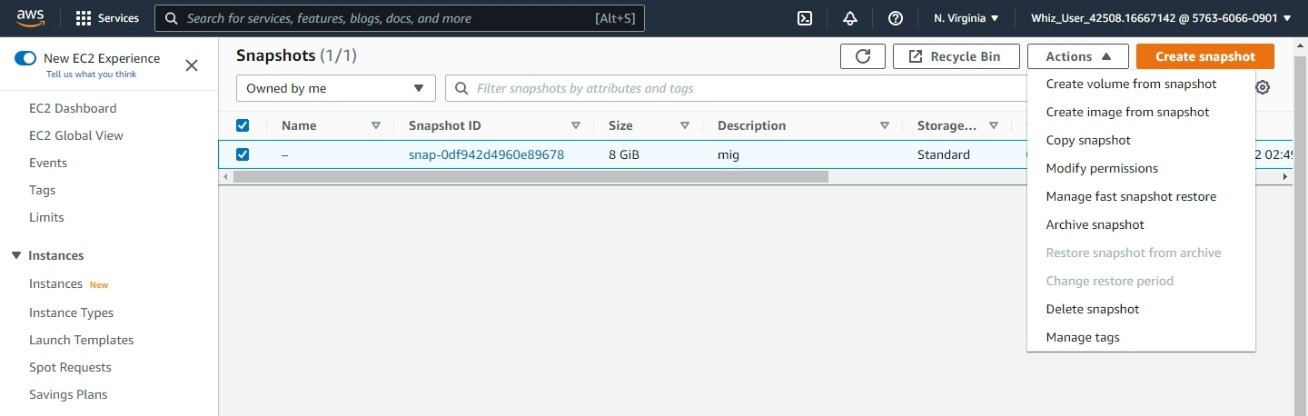
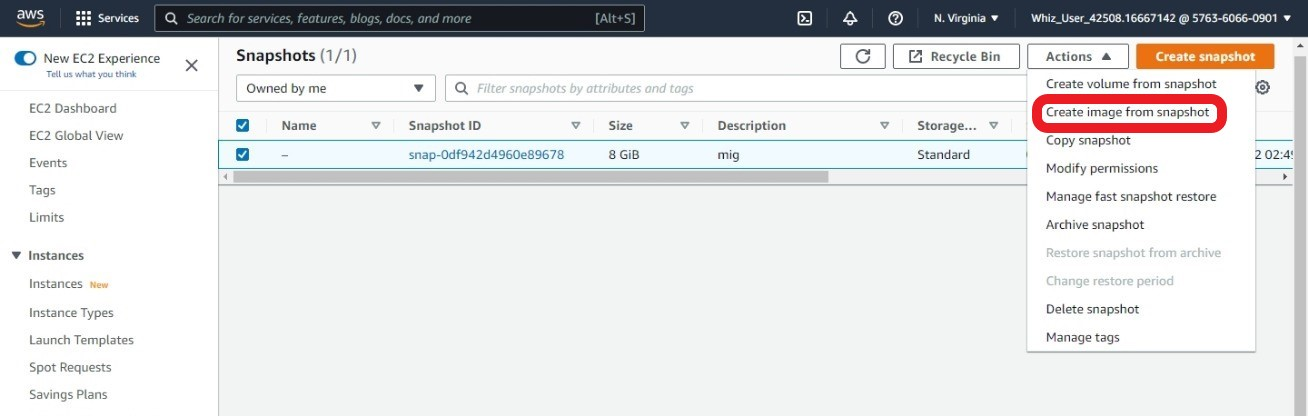
final

Changed region(s): [[0.7645, 0.2188, 0.948, 0.3438]]

diff --git a/Readme.md b/Readme.md
@@ -62,6 +62,8 @@ Give the instance a name.  Create a key pair. If using Putty, make sure to selec
   <img src="create key pair.jpg">
 </p>
 
+Select the instsance and click *Connect* to get the SSH details.
+
 <p align="center">
   <img width="800" src="launch instance 3.jpg">
 </p>
@@ -70,15 +72,35 @@ Give the instance a name.  Create a key pair. If using Putty, make sure to selec
   <img src="ssh.jpg">
 </p>
 
-Code block
+Within Putty, in Session under Host Name, input ec2-user@*instance-public-dns*.
+
+Under Connection > SSH > Auth > Authentication parameters > Private key file for authentication, broswe to and select the key file for the instance.
+
+Within the terminal, input
+
+<code>sudo su\
+yum update -y\
+yum install httpd -y\
+nano /var/www/html/test.html
+</code>
+
+With the nano editor, type <code>Whizlabs Test Page</code>.
+Press ctrl + X, type Y and hit enter.
+
+
+Back in AWS, navigate to **EC2** > **Elastic Block Store** > **Snapshots**, and click *create snapahot*.
 
 <p align="center">
   <img width="800" src="create snapshot.jpg">
 </p>
 
+Select *Instance* under **Resource type** and choose the instance under **Instance ID**.  Click *Create snapshot*.
+
 <p align="center">
   <img width="800" src="create snapshot 2.jpeg">
 </p>
+
+Wait for the sanpshot to be created.
 
 <p align="center">
   <img width="800" src="create snapshot 3.jpeg">
@@ -88,29 +110,45 @@ Code block
   <img width="800" src="create snapshot 4.jpeg">
 </p>
 
+Under **Actions**, click *Create image from snapshot*.
+
 <p align="center">
   <img width="800" src="create ami.jpg">
 </p>
+
+Input a name for the image and click *Create image*.
 
 <p align="center">
   <img width="800" src="create ami 2.jpg">
 </p>
 
+Under **Images** > **AMIs** and **Actions**, click *Copy AMI*.
+
 <p align="center">
   <img width="800" src="copy ami.jpg">
 </p>
+
+Enter a name and click *Copy AMI*.
 
 <p align="center">
   <img width="800" src="copy ami 2.jpg">
 </p>
 
+Switch to *ap-south-1*  and wait for the copy to finish.
+
 <p align="center">
   <img width="800" src="copy ami 3.jpg">
 </p>
 
+Click *Launch instance from AMI*.
+
 <p align="center">
   <img width="800" src="copy ami 4.jpg">
 </p>
+
+Input a name.  From **My AMIs**, select the copied ami.  Create a new key pair and ensure SSH and HTTP trafffic are allowed.
+
+Click *Launch instance*.
 
 <p align="center">
   <img width="800" src="launch migrated instance 2.jpg">
@@ -119,6 +157,8 @@ Code block
 <p align="center">
   <img src="create key pair 2.jpg">
 </p>
+
+Lab is complete.
 
 <p align="center">
   <img width="800" src="validation.jpg">
